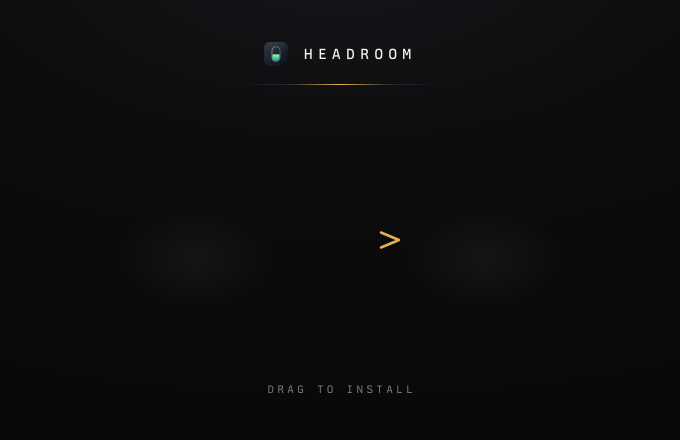
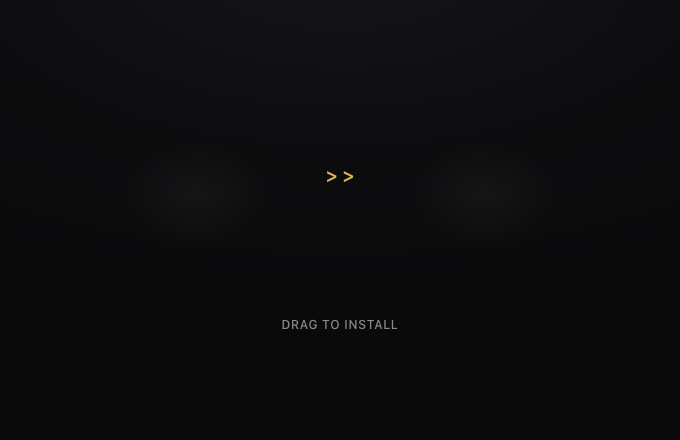
Polish DMG installer window to feel native (#23)
Drop the wordmark/logo and hairline rule from the install window — the
volume icon + "Headroom Installer" name already carry branding in the
left-aligned Finder title bar (macOS convention, no toolbar). Fix the
drag arrow, which rendered as a bare floating chevron because its SVG
gradient used objectBoundingBox on a zero-height <line> (spec says that's
ignored); replace it with a plain gold ">>" in TX-02. Switch "Drag to
Install" to system font instead of the brand mono. Re-center the icon
row + arrow + instruction block now that the header is gone, and rename
the mounted volume to "Headroom Installer" to match.

diff --git a/Assets/Release/dmg-window-preview.html b/Assets/Release/dmg-window-preview.html
@@ -29,14 +29,15 @@
     height: 28px;
     background: #17181A;
     border-bottom: 1px solid #000;
-    display: flex; align-items: center; position: relative;
+    display: flex; align-items: center; gap: 10px;
     padding: 0 12px;
   }
-  .lights { display: flex; gap: 8px; }
+  .lights { display: flex; gap: 8px; flex-shrink: 0; }
   .lights i { width: 12px; height: 12px; border-radius: 50%; display: block; }
   .l-close { background: #FF5F57; } .l-min { background: #FEBC2E; } .l-max { background: #28C840; }
-  .title { position: absolute; left: 0; width: 100%; text-align: center;
-           font-size: 13px; font-weight: 500; color: #B9BABD; }
+  .title { display: flex; align-items: center; gap: 6px;
+           font-size: 13px; font-weight: 600; color: #E4E4E1; }
+  .title img { width: 16px; height: 16px; border-radius: 4px; }
 
   /* ---- background plate (identical to dmg-background.html) ---- */
   .plate {
@@ -45,23 +46,20 @@
     background-image: radial-gradient(130% 100% at 50% -10%, #16161A 0%, #0C0C0E 46%, #09090A 100%);
     -webkit-font-smoothing: antialiased;
   }
-  .seat { position: absolute; top: 184px; width: 220px; height: 150px; border-radius: 50%;
+  .seat { position: absolute; top: 120px; width: 220px; height: 150px; border-radius: 50%;
           background: radial-gradient(closest-side, rgba(255,255,255,0.045), rgba(255,255,255,0) 72%); }
   .seat-left { left: 86px; } .seat-right { left: 374px; }
-  .wordmark { position: absolute; top: 42px; left: 0; width: 680px; display: flex;
-              justify-content: center; align-items: center; gap: 11px; }
-  .wordmark img { width: 24px; height: 24px; border-radius: 6px; }
-  .wordmark span { font-family: 'TX-02'; font-weight: 500; font-size: 15px;
-                   letter-spacing: 0.34em; color: #F4F3EF; padding-left: 0.34em; }
-  .rule { position: absolute; top: 84px; left: 240px; width: 200px; height: 1px;
-          background: linear-gradient(90deg, rgba(46,46,51,0) 0%, #2E2E33 26%, #E3B24E 50%, #2E2E33 74%, rgba(46,46,51,0) 100%); }
-  .arrow { position: absolute; left: 274px; top: 227px; }
-  .instruction { position: absolute; top: 382px; left: 0; width: 680px; display: flex; justify-content: center; }
-  .instruction span { font-family: 'TX-02'; font-weight: 400; font-size: 11px;
-                      letter-spacing: 0.3em; color: #83837E; padding-left: 0.3em; }
+  .arrow { position: absolute; left: 266px; top: 162px; width: 148px; height: 28px;
+           display: flex; align-items: center; justify-content: center; }
+  .arrow span { font-family: 'TX-02'; font-weight: 500; font-size: 24px; line-height: 1;
+                letter-spacing: 0.1em; color: #E3B24E; padding-left: 0.1em; }
+  .instruction { position: absolute; top: 318px; left: 0; width: 680px; display: flex; justify-content: center; }
+  .instruction span { font-family: -apple-system, "SF Pro Text", "Helvetica Neue", sans-serif;
+                      font-weight: 500; font-size: 12px;
+                      letter-spacing: 0.06em; color: #8B8B86; }
 
   /* ---- Finder-drawn layer (icons + labels), overlaid on top ---- */
-  .icon { position: absolute; top: 176px; width: 200px; display: flex;
+  .icon { position: absolute; top: 112px; width: 200px; display: flex;
           flex-direction: column; align-items: center; gap: 11px; }
   .icon-app  { left: 96px; }        /* icon center x = 196 */
   .icon-apps { left: 384px; }       /* icon center x = 484 */
@@ -74,25 +72,16 @@
   <div class="window">
     <div class="titlebar">
       <div class="lights"><i class="l-close"></i><i class="l-min"></i><i class="l-max"></i></div>
-      <div class="title">Headroom</div>
+      <div class="title">
+        <img src="../../Sources/HeadroomApp/Resources/Assets.xcassets/AppIcon.appiconset/icon_1024.png" alt="">
+        <span>Headroom Installer</span>
+      </div>
     </div>
 
     <div class="plate">
       <div class="seat seat-left"></div>
       <div class="seat seat-right"></div>
-      <div class="wordmark">
-        <img src="../../Sources/HeadroomApp/Resources/Assets.xcassets/AppIcon.appiconset/icon_1024.png" alt="">
-        <span>HEADROOM</span>
-      </div>
-      <div class="rule"></div>
-      <svg class="arrow" width="132" height="26" viewBox="0 0 132 26" xmlns="http://www.w3.org/2000/svg">
-        <defs><linearGradient id="arrShaft" x1="0" y1="0" x2="1" y2="0">
-          <stop offset="0" stop-color="#E3B24E" stop-opacity="0.15"/>
-          <stop offset="0.22" stop-color="#E3B24E" stop-opacity="0.9"/>
-          <stop offset="1" stop-color="#E3B24E"/></linearGradient></defs>
-        <line x1="2" y1="13" x2="114" y2="13" stroke="url(#arrShaft)" stroke-width="2.5" stroke-linecap="round"/>
-        <path d="M107 5.5 L125 13 L107 20.5" fill="none" stroke="#E3B24E" stroke-width="2.5" stroke-linecap="round" stroke-linejoin="round"/>
-      </svg>
+      <div class="arrow"><span>&gt;&gt;</span></div>
       <div class="instruction"><span>DRAG TO INSTALL</span></div>
 
       <!-- Finder-drawn icons (representative) -->

diff --git a/Assets/Release/dmg-background.html b/Assets/Release/dmg-background.html
@@ -1,23 +1,26 @@
 <!doctype html>
 <!--
-  Headroom DMG installer window background — "Instrument" (Option 1).
+  Headroom DMG installer window background — native/minimal.
   Source of truth for Assets/Release/dmg-background.png (@1x 680x440) and
   dmg-background@2x.png (@2x 1360x880). Regenerate with make-dmg-background.sh.
 
-  This bitmap intentionally contains ONLY branding: ground, icon seats, wordmark,
-  hairline, drag arrow, and instruction. The Headroom.app icon, the Applications
-  folder, and their name labels are drawn by Finder on top at run time
-  (see Scripts/release-app.sh -> create_drag_install_dmg). Do not draw icons here.
+  This bitmap intentionally contains ONLY: ground, icon seats, drag arrow, and
+  instruction. No wordmark/logo — the volume icon + name in the Finder title
+  bar already carry branding, so the window content stays plain and native.
+  The Headroom.app icon, the Applications folder, and their name labels are
+  drawn by Finder on top at run time (see Scripts/release-app.sh ->
+  create_drag_install_dmg). Do not draw icons here.
 
   Canvas 680 x 440. Finder icon-view positions (content coords):
-    Headroom.app  center 196,240   |   Applications  center 484,240   |   icon size 128
+    Headroom.app  center 196,176   |   Applications  center 484,176   |   icon size 128
+  Vertically centered: icon+label block and instruction line are balanced around
+  the 440px content height now that there's no header content up top.
 -->
 <html>
 <head>
 <meta charset="utf-8">
 <style>
   html, body { margin: 0; padding: 0; }
-  @font-face { font-family: 'TX-02'; font-weight: 400; src: local('TX-02'); }
   @font-face { font-family: 'TX-02'; font-weight: 500; src: local('TX-02 Medium'), local('TX-02'); }
 
   .plate {
@@ -33,7 +36,7 @@
   /* Soft seats where Finder drops the two icons */
   .seat {
     position: absolute;
-    top: 184px;
+    top: 120px;
     width: 220px;
     height: 150px;
     border-radius: 50%;
@@ -42,31 +45,23 @@
   .seat-left  { left: 86px; }
   .seat-right { left: 374px; }
 
-  .wordmark {
-    position: absolute;
-    top: 42px; left: 0; width: 680px;
-    display: flex; justify-content: center; align-items: center; gap: 11px;
+  .arrow {
+    position: absolute; left: 266px; top: 162px; width: 148px; height: 28px;
+    display: flex; align-items: center; justify-content: center;
   }
-  .wordmark img { width: 24px; height: 24px; border-radius: 6px; }
-  .wordmark span {
-    font-family: 'TX-02'; font-weight: 500; font-size: 15px;
-    letter-spacing: 0.34em; color: #F4F3EF; padding-left: 0.34em;
+  .arrow span {
+    font-family: 'TX-02'; font-weight: 500; font-size: 24px; line-height: 1;
+    letter-spacing: 0.1em; color: #E3B24E; padding-left: 0.1em;
   }
-
-  .rule {
-    position: absolute; top: 84px; left: 240px; width: 200px; height: 1px;
-    background: linear-gradient(90deg, rgba(46,46,51,0) 0%, #2E2E33 26%, #E3B24E 50%, #2E2E33 74%, rgba(46,46,51,0) 100%);
-  }
-
-  .arrow { position: absolute; left: 274px; top: 227px; }
 
   .instruction {
-    position: absolute; top: 382px; left: 0; width: 680px;
+    position: absolute; top: 318px; left: 0; width: 680px;
     display: flex; justify-content: center;
   }
   .instruction span {
-    font-family: 'TX-02'; font-weight: 400; font-size: 11px;
-    letter-spacing: 0.3em; color: #83837E; padding-left: 0.3em;
+    font-family: -apple-system, "SF Pro Text", "Helvetica Neue", sans-serif;
+    font-weight: 500; font-size: 12px;
+    letter-spacing: 0.06em; color: #8B8B86;
   }
 </style>
 </head>
@@ -75,24 +70,7 @@
     <div class="seat seat-left"></div>
     <div class="seat seat-right"></div>
 
-    <div class="wordmark">
-      <img src="../../Sources/HeadroomApp/Resources/Assets.xcassets/AppIcon.appiconset/icon_1024.png" alt="">
-      <span>HEADROOM</span>
-    </div>
-
-    <div class="rule"></div>
-
-    <svg class="arrow" width="132" height="26" viewBox="0 0 132 26" xmlns="http://www.w3.org/2000/svg">
-      <defs>
-        <linearGradient id="arrShaft" x1="0" y1="0" x2="1" y2="0">
-          <stop offset="0" stop-color="#E3B24E" stop-opacity="0.15"/>
-          <stop offset="0.22" stop-color="#E3B24E" stop-opacity="0.9"/>
-          <stop offset="1" stop-color="#E3B24E"/>
-        </linearGradient>
-      </defs>
-      <line x1="2" y1="13" x2="114" y2="13" stroke="url(#arrShaft)" stroke-width="2.5" stroke-linecap="round"/>
-      <path d="M107 5.5 L125 13 L107 20.5" fill="none" stroke="#E3B24E" stroke-width="2.5" stroke-linecap="round" stroke-linejoin="round"/>
-    </svg>
+    <div class="arrow"><span>&gt;&gt;</span></div>
 
     <div class="instruction"><span>DRAG TO INSTALL</span></div>
   </div>
